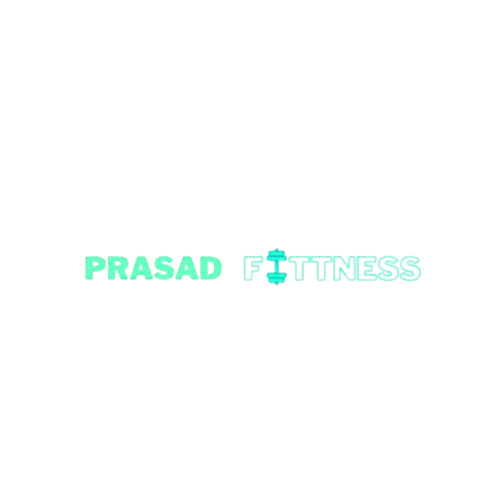
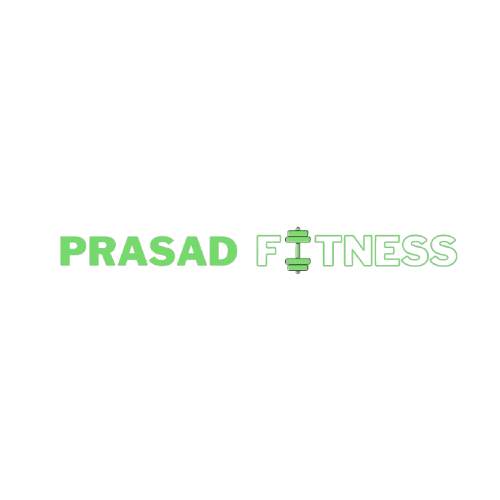
Add files via upload

Changed region(s): [[0.12, 0.45, 0.93, 0.57]]

diff --git a/index.html b/index.html
@@ -197,7 +197,7 @@ h2{text-align:center;margin-bottom:40px}
 
 
 header {
-  height: 60px;
+  height: 60 px;
   padding: 0 10px;
   display: flex;
   justify-content: space-between;
@@ -205,8 +205,9 @@ header {
 }
 
 .logo img {
-  height: 300px;
-   margin-top:-10px;
+  height: 290px;
+   margin-top:auto;
+   margin-bottom:-8px;
   transition: 0.3s ease;
 }
 
@@ -217,7 +218,8 @@ header {
 
   .logo img {
     height: 260px;
-    margin-top:-10px;
+    margin-top:auto;
+    margin-bottom:-8px;
   }
 }
 /* SCROLL BUTTONS */